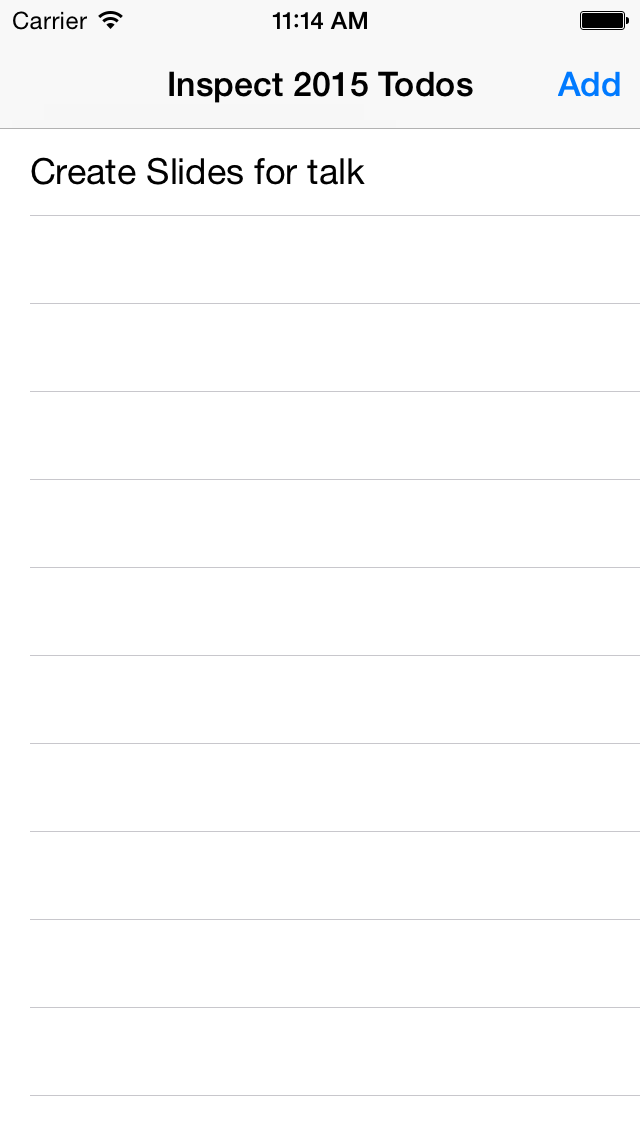
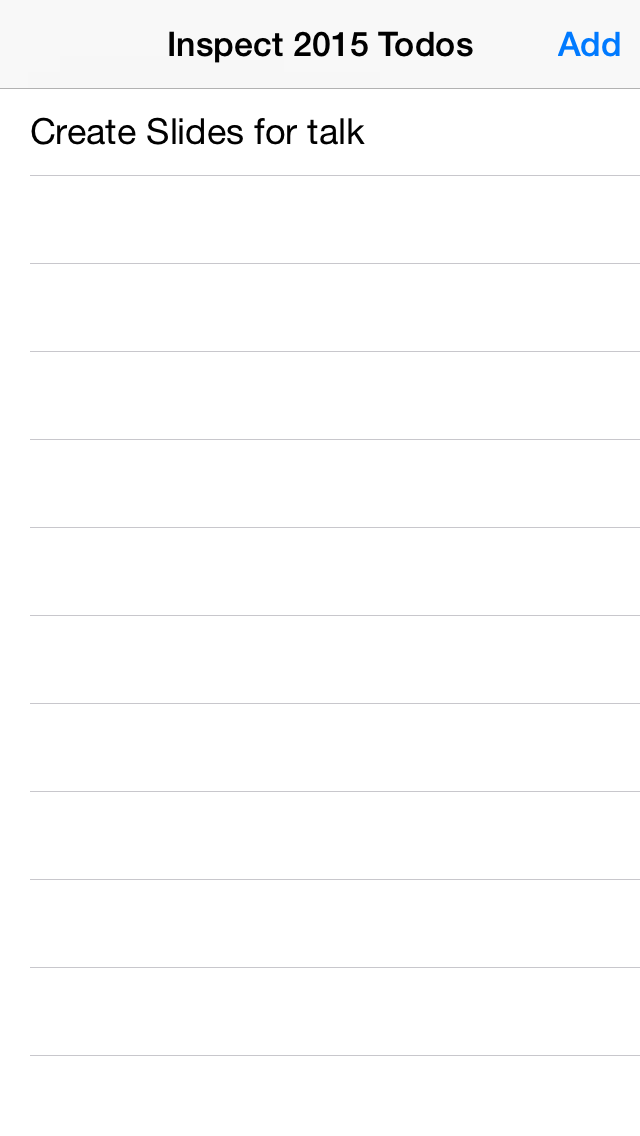
Tweaks to integration tests
* Fixes ability to have screenshots (status bar woes)
  * Makes the test less like a script

diff --git a/app/app_delegate.rb b/app/app_delegate.rb
@@ -1,17 +1,10 @@
 class AppDelegate < PM::Delegate
   include CDQ # Remove this if you aren't using CDQ
 
-  status_bar true, animation: :fade
+  status_bar false, animation: :none
 
   def on_load(app, options)
     cdq.setup # Remove this if you aren't using CDQ
     open TodosScreen.new(nav_bar: true)
-  end
-
-  # Remove this if you are only supporting portrait
-  def application(application, willChangeStatusBarOrientation: new_orientation, duration: duration)
-    # Manually set RMQ's orientation before the device is actually oriented
-    # So that we can do stuff like style views before the rotation begins
-    device.orientation = new_orientation
   end
 end

diff --git a/features/step_definitions/entering_todo_items_steps.rb b/features/step_definitions/entering_todo_items_steps.rb
@@ -1,5 +1,7 @@
-When(/^I enter "([^"]*)" into the body$/) do |content|
+When(/^I add a new todo item with body "([^"]*)"$/) do |content|
+  step %~I touch "Add"~
   find_element(:name, "What do you need todo?").send_keys(content)
+  step %~I touch "Save"~
 end
 
 Then(/^I should be on the todo list showing my new entry$/) do

diff --git a/features/support/screenshotting.rb b/features/support/screenshotting.rb
@@ -10,3 +10,4 @@ Then /^the screen should match "([^\"]*)"$/ do |template|
   max_attempts = 10
   expect(screenshotter.attempt_verify(max_attempts)).to eq(true)
 end
+

diff --git a/integration_concerns/app_delegate.rb b/integration_concerns/app_delegate.rb
@@ -1,0 +1,7 @@
+module ProMotion
+  module ScreenModule
+    def resolve_status_bar
+      status_bar_hidden(true)
+    end
+  end
+end
